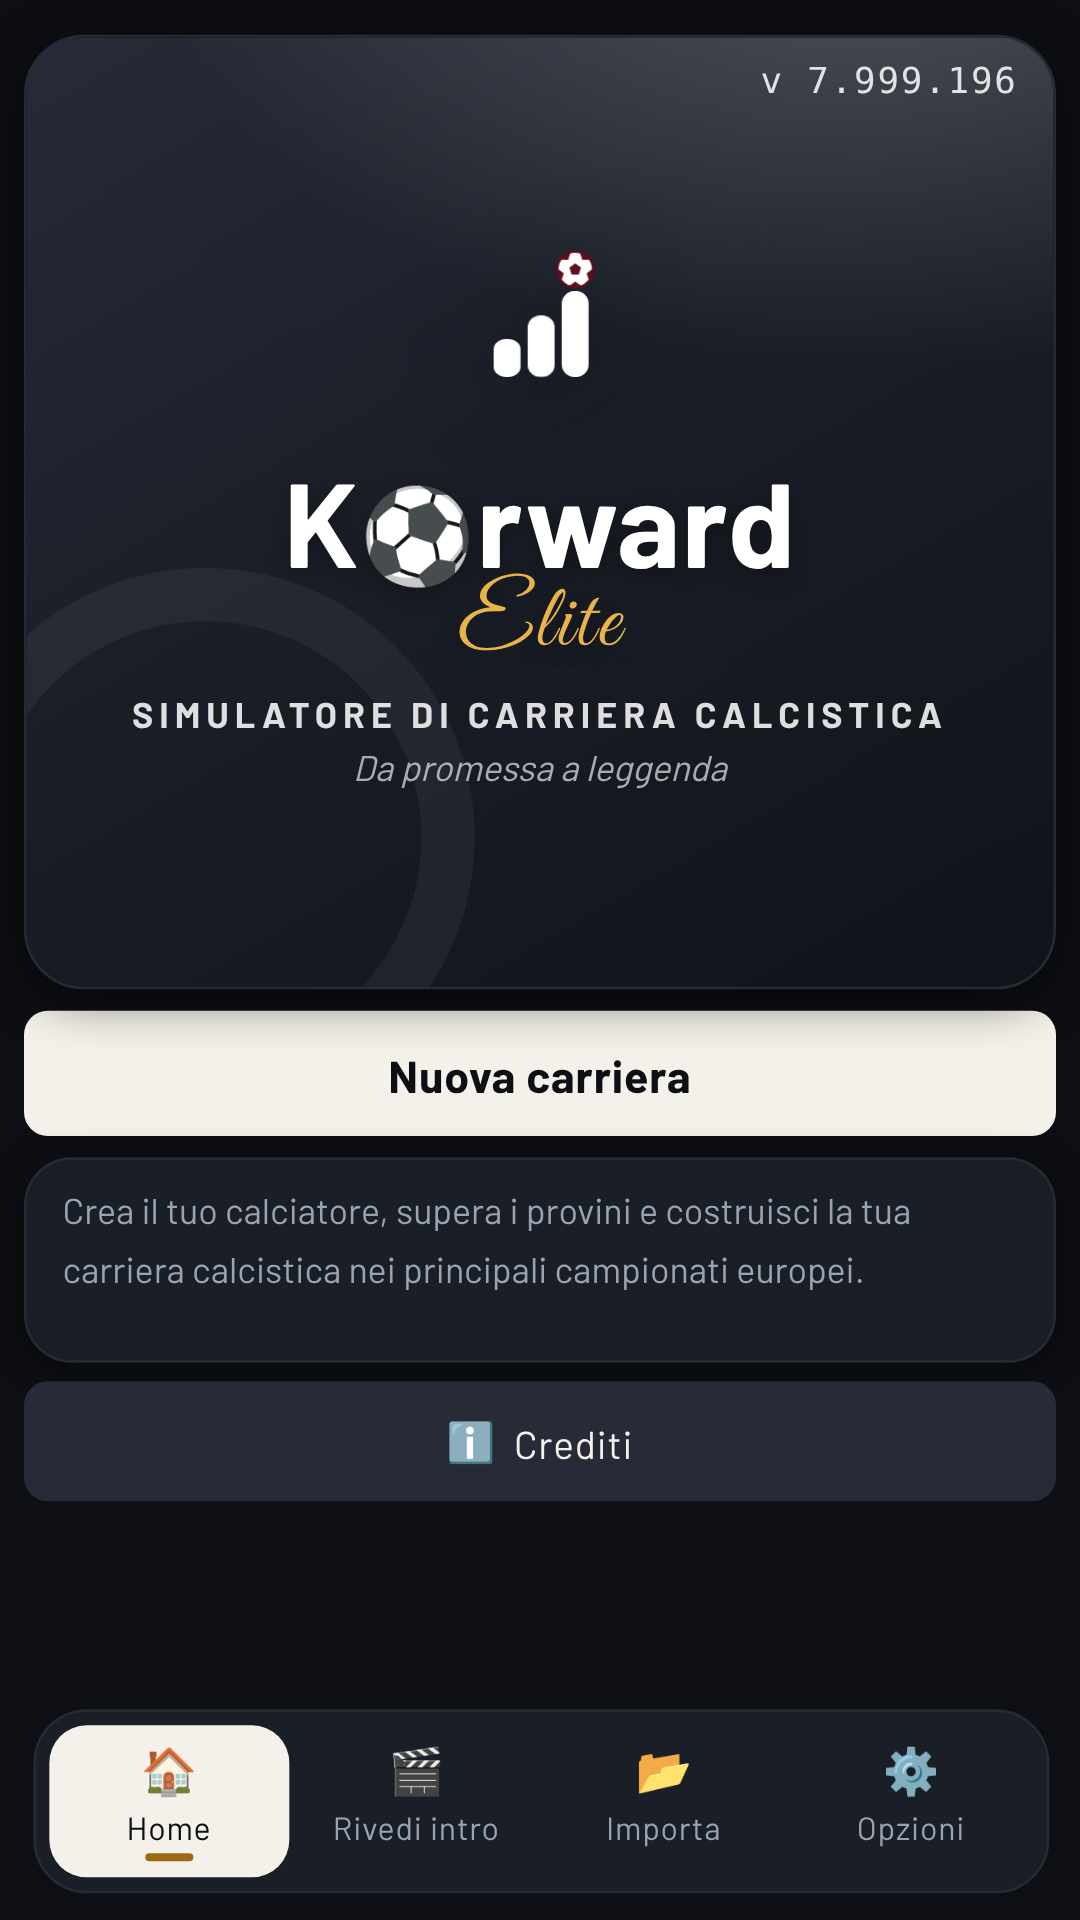
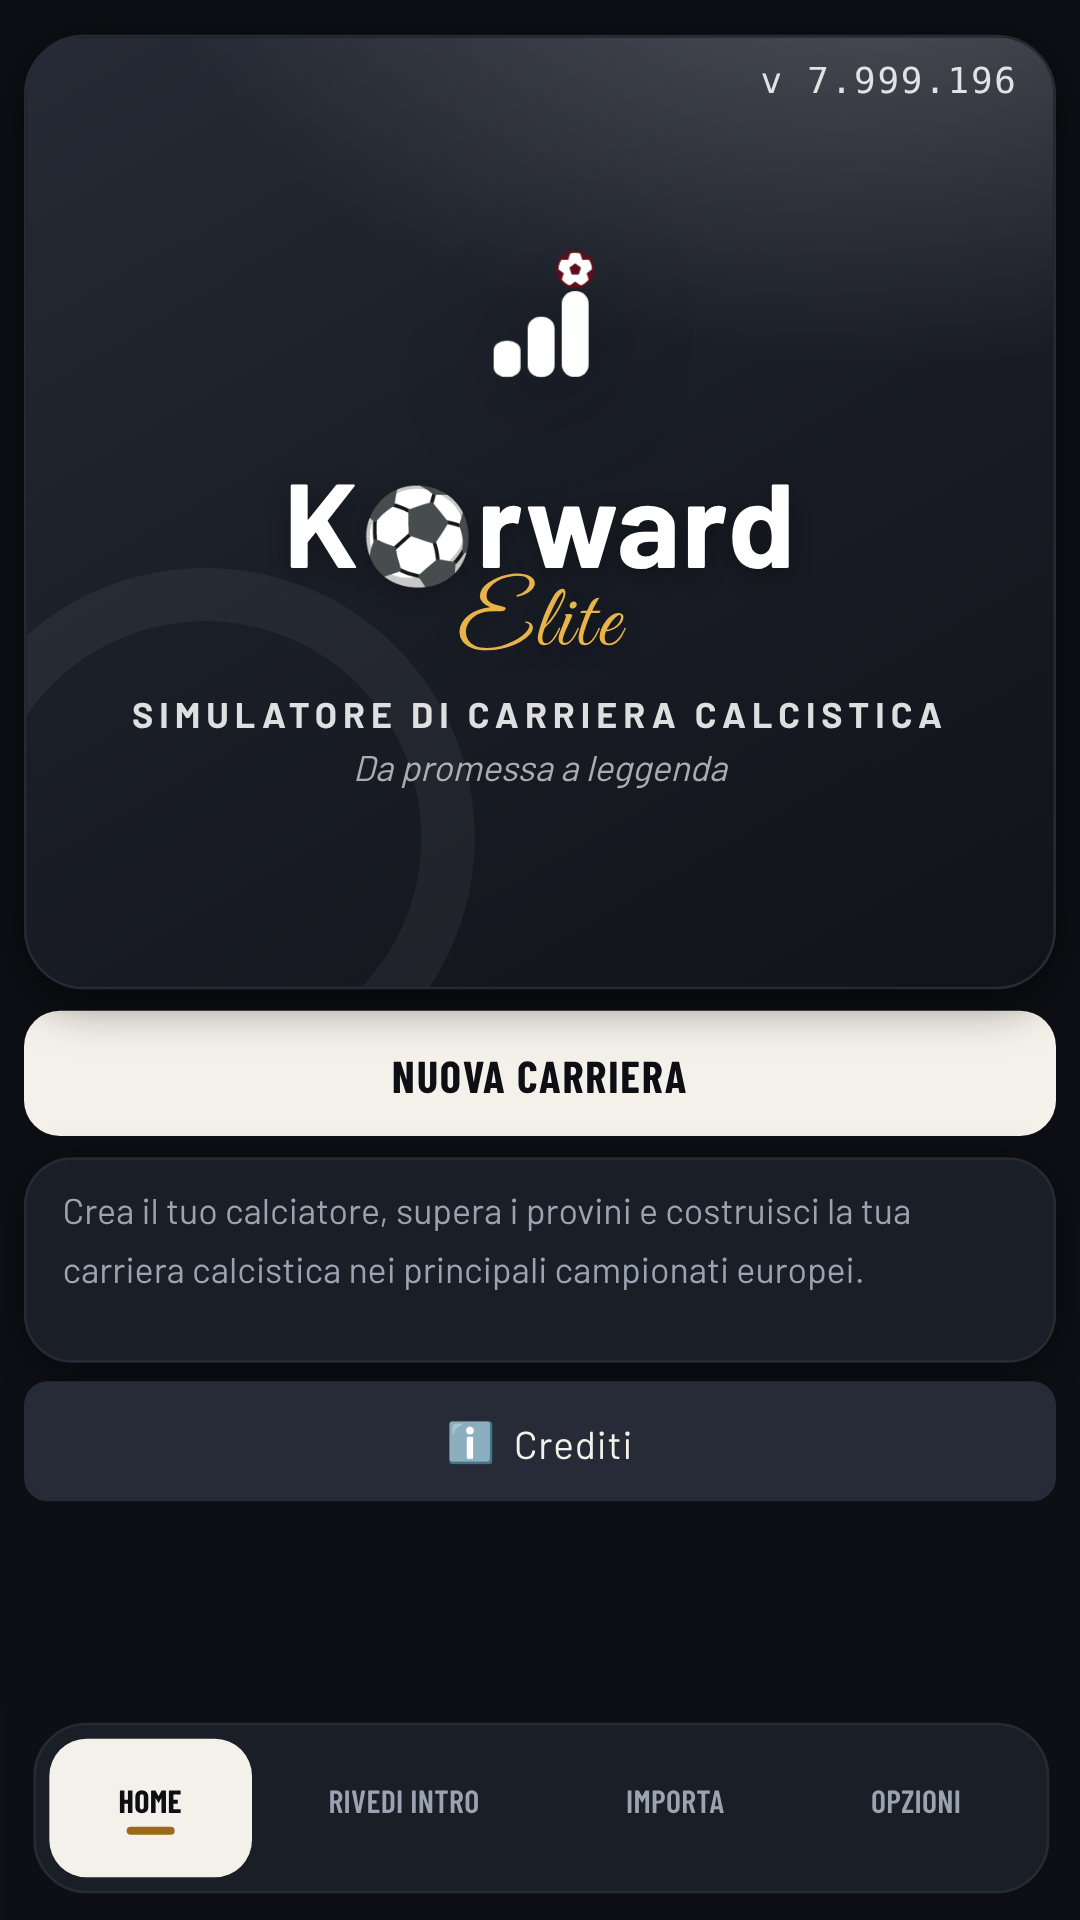
giro 260 (B): screenshot dello store rifatti come nell'app (?app=twa), senza Sostieni; finestre della settimana chiuse prima dello scatto
Claude-Session: https://claude.ai/code/session_01QEYiaCwUMhKc9cjJ9iQzEe

diff --git a/docs/store/IMMAGINI.md b/docs/store/IMMAGINI.md
@@ -24,9 +24,11 @@ schermo 405 × 720 punti a densità 8/3 = **1080 × 1920 px esatti**. Si rifanno
 
 Limiti onesti, da valutare dal PO prima di caricarli:
 - sono **catture del banco** (Chrome senza scheda grafica), non di un telefono: luci e fluidità del 3D sul telefono sono diverse;
-- mostrano la versione **7.999.196** scritta in alto (la build del ramo `lavoro/197` al momento della cattura): rifarli sulla versione
-  che si carica;
+- [giro 260] rifatti sul ramo del giro 260 (base `lavoro/197`): la scritta in alto dice ancora **7.999.196**, perché `GAME_VERSION`
+  nel gioco non è stato toccato (regola del giro); la TWA è già alla 7.999.197. Al rilascio della 7.999.197 la scritta cambia: si rifanno
+  con lo stesso comando;
+- [giro 260] home, creazione e plancia sono scattate **come nell'app** (`?app=twa`): niente «Sostieni il progetto» (decisione PO 17/11);
+  lo script si ferma se lo trova nella plancia;
 - la partita è un **provino** con una scena forzata (rigore): mostra la scelta della giocata, non una partita di campionato;
-- la plancia mostra il pulsante **«Sostieni il progetto»** (donazione): se il PO lo toglie dalla versione store, vanno rifatti;
 - i vecchi `store-assets/screenshots/` (1080 × 1920 ma con il layout da computer a 1080 px di larghezza) restano dove sono: **non
   usarli** per il telefono.
